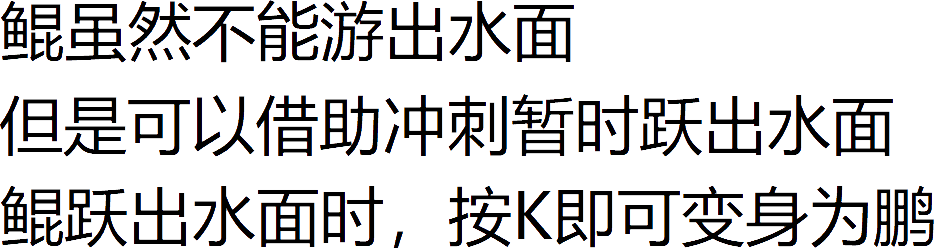
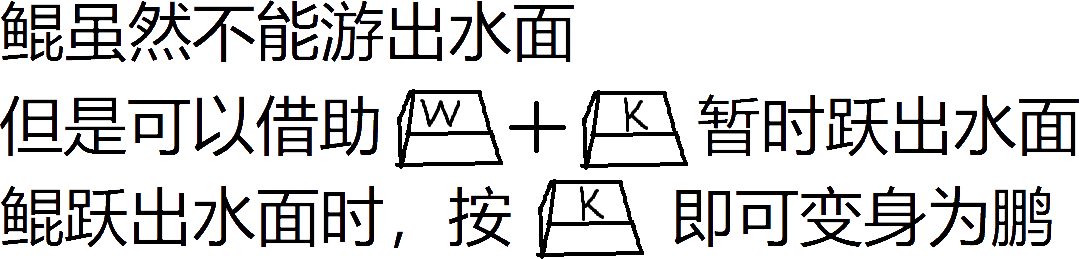
微调玩家指引，现在主角移动到固定地点才会刷出提示了

diff --git a/proj.win32/Stage1GameplayLayer.cpp b/proj.win32/Stage1GameplayLayer.cpp
@@ -41,24 +41,27 @@ void Stage1GameplayLayer::onEnter(){
 	this->addChild(this->background, -1);
 
 
-	Sprite * tutorial_motion = Sprite::create("tutorial/tutorial_motion.png");
-	tutorial_motion->setPosition(700, 300);
+	this->tutorial_motion = Sprite::create("tutorial/tutorial_motion.png");
+	this->tutorial_motion->setPosition(700, 300);
 	this->addChild(tutorial_motion);
 
-	Sprite * tutorial_jk = Sprite::create("tutorial/tutorial_jk.png");
-	tutorial_jk->setPosition(700, -300);
+	this->tutorial_jk = Sprite::create("tutorial/tutorial_jk.png");
+	this->tutorial_jk->setPosition(700, -300);
 	this->addChild(tutorial_jk);
 
-	Sprite * tutorial_trans_btf = Sprite::create("tutorial/tutorial_trans_btf.png");
-	tutorial_trans_btf->setPosition(1400, 100);
+	this->tutorial_trans_btf = Sprite::create("tutorial/tutorial_trans_btf.png");
+	this->tutorial_trans_btf->setPosition(1400, 100);
+	this->tutorial_trans_btf->setOpacity(0);
 	this->addChild(tutorial_trans_btf);
 
-	Sprite * tutorial_trans_ftb = Sprite::create("tutorial/tutorial_trans_ftb.png");
-	tutorial_trans_ftb->setPosition(2400, -200);
+	this->tutorial_trans_ftb = Sprite::create("tutorial/tutorial_trans_ftb.png");
+	this->tutorial_trans_ftb->setPosition(2400, -200);
+	this->tutorial_trans_ftb->setOpacity(0);
 	this->addChild(tutorial_trans_ftb);
 
-	Sprite * tutorial_delegate_explore = Sprite::create("tutorial/tutorial_delegate_explore.png");
-	tutorial_delegate_explore->setPosition(3500, 0);
+	this->tutorial_delegate_explore = Sprite::create("tutorial/tutorial_delegate_explore.png");
+	this->tutorial_delegate_explore->setPosition(3500, 0);	
+	this->tutorial_delegate_explore->setOpacity(0);
 	this->addChild(tutorial_delegate_explore);
 
 	/*

diff --git a/proj.win32/Stage1Scene.cpp b/proj.win32/Stage1Scene.cpp
@@ -243,6 +243,16 @@ void Stage1Scene::myUpdate(float dt){
 	if (bossHPScale < 0) bossHPScale = 0;
 	uiLayer->bossHPBar->setScaleX(bossHPScale);
 
+	if (kp->isBird){
+		uiLayer->head_kun->setVisible(false);
+		uiLayer->head_peng->setVisible(true);
+	}
+	else{
+		uiLayer->head_kun->setVisible(true);
+		uiLayer->head_peng->setVisible(false);
+	}
+
+
 
 	if (!gameplayLayer->heroHasTriggeredDetectBoss && kp->getPositionX() > gameplayLayer->detectBossX){
 		//uiLayer->bossName->setOpacity(128);
@@ -255,12 +265,18 @@ void Stage1Scene::myUpdate(float dt){
 		gameplayLayer->heroHasTriggeredDetectBoss = true;
 	}
 
-	if (kp->isBird){
-		uiLayer->head_kun->setVisible(false);
-		uiLayer->head_peng->setVisible(true);
+	if ( !gameplayLayer->heroHasTriggeredHint1 && kp->getPositionX() > gameplayLayer->detectHint1){
+		gameplayLayer->tutorial_trans_btf->runAction(FadeIn::create(1));
+		gameplayLayer->heroHasTriggeredHint1 = true;
 	}
-	else{
-		uiLayer->head_kun->setVisible(true);
-		uiLayer->head_peng->setVisible(false);
+	if (!gameplayLayer->heroHasTriggeredHint2 && kp->getPositionX() > gameplayLayer->detectHint2){
+		gameplayLayer->tutorial_trans_ftb->runAction(FadeIn::create(1));
+		gameplayLayer->heroHasTriggeredHint2 = true;
 	}
+	if (!gameplayLayer->heroHasTriggeredHint3 && kp->getPositionX() > gameplayLayer->detectHint3){
+		gameplayLayer->tutorial_delegate_explore->runAction(FadeIn::create(1));
+		gameplayLayer->heroHasTriggeredHint3 = true;
+	}
+
+	
 }
